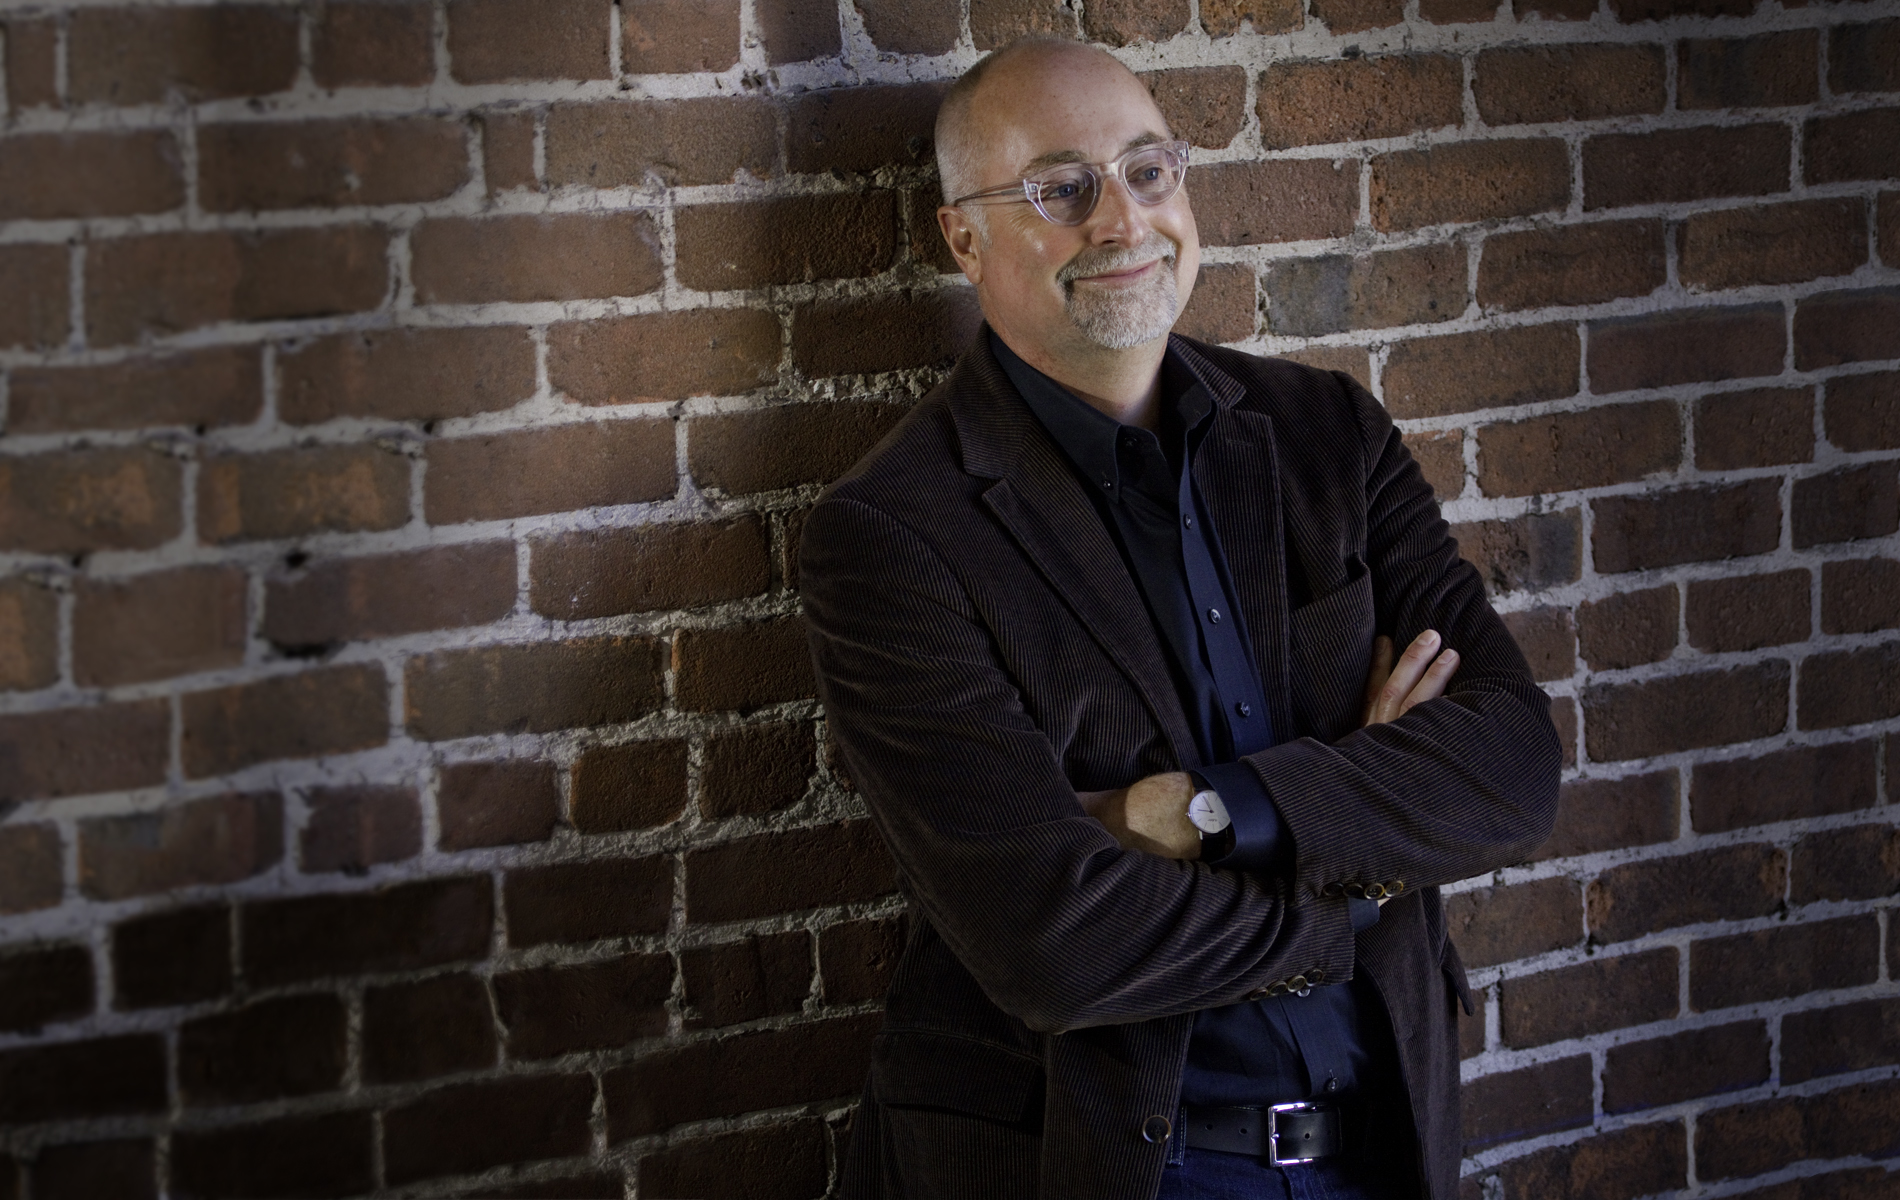
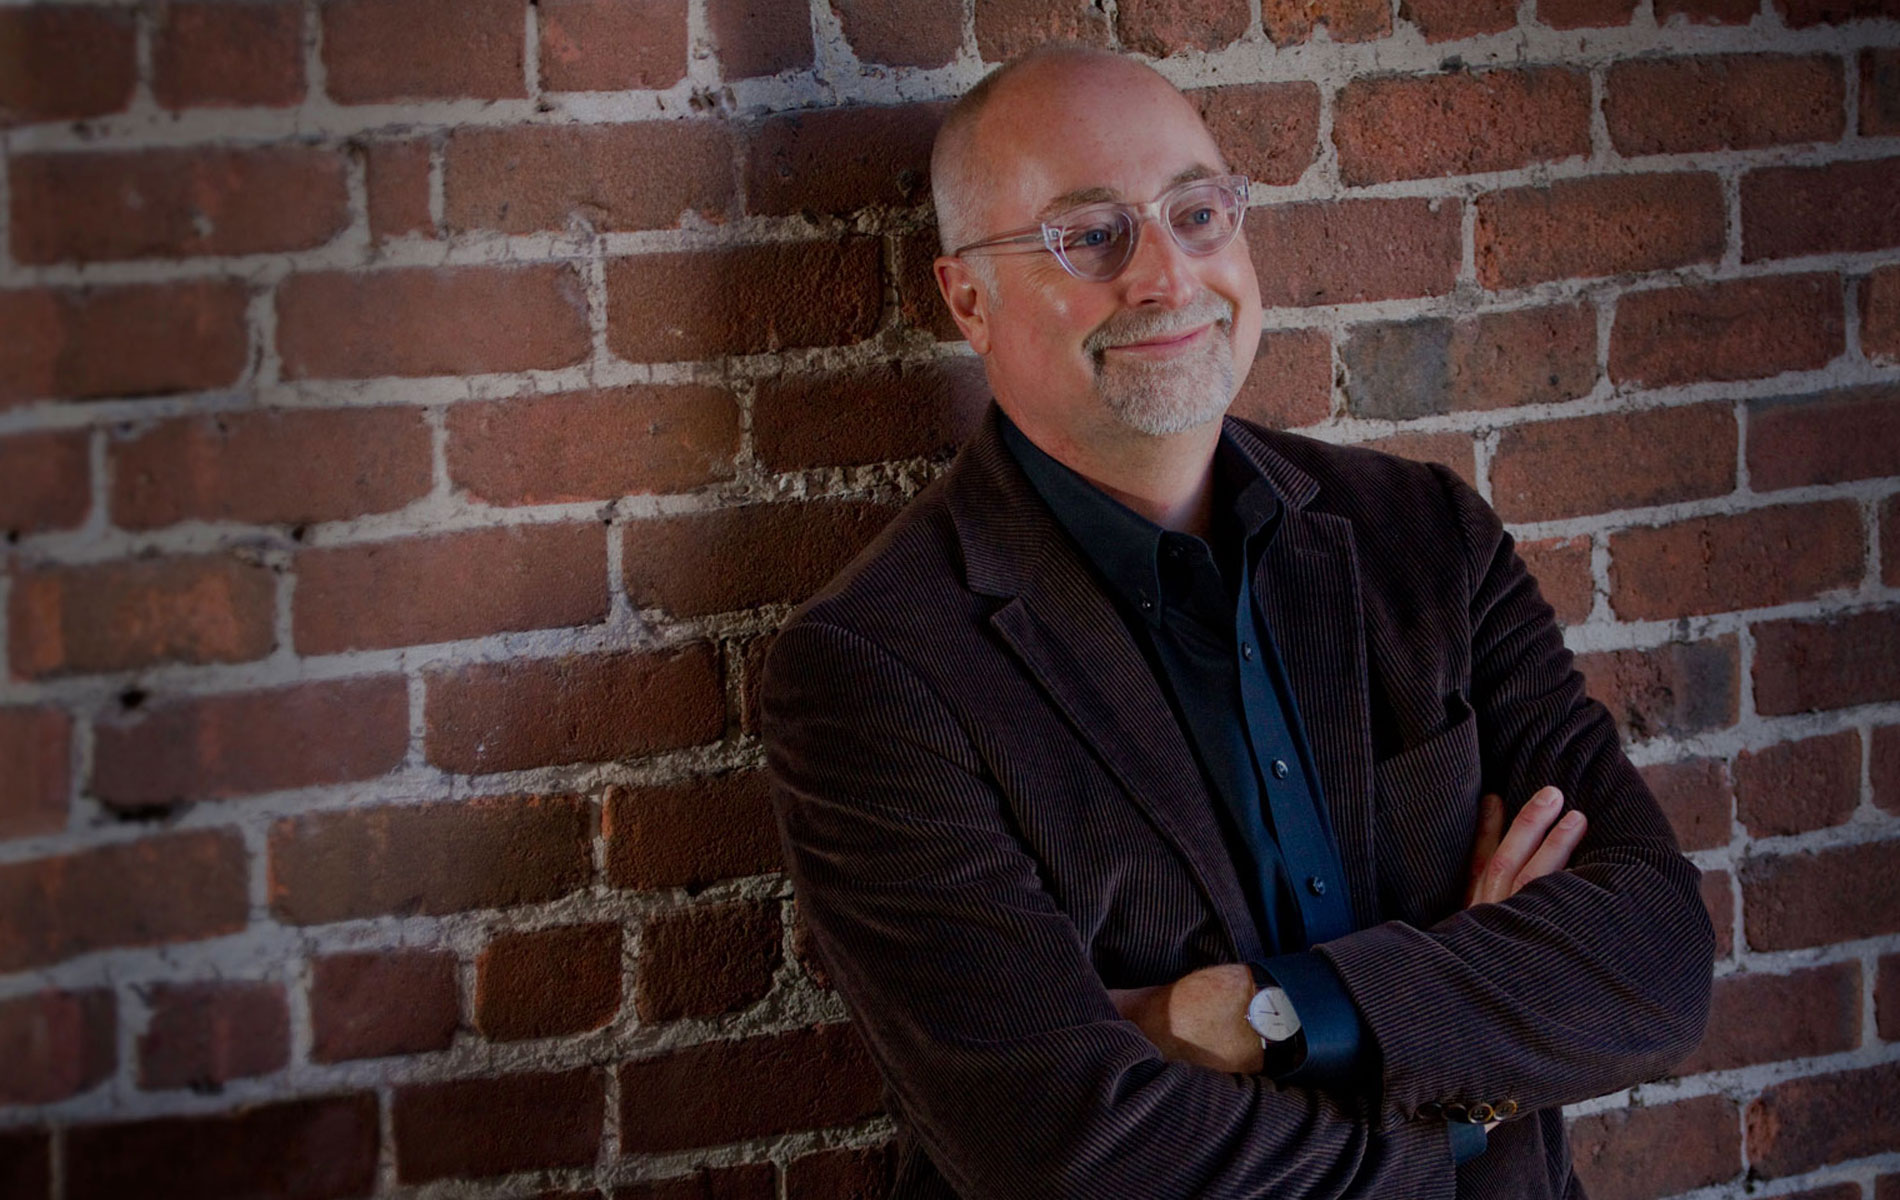
adjusted team bg images

diff --git a/css/oatv.css b/css/oatv.css
@@ -47,10 +47,10 @@ menu, menu li { float: left; list-style-type: none; padding: 0; margin: 0; }
 #header menu li a.select { color: #444; background: #eee; }
 
 p {
-	margin: 0 0 16px 0;	
-	font: 14px/20px Arvo, Helvetica, Arial, sans-serif; 
+	margin: 0 0 16px 0;
+	font: 14px/20px Arvo, Helvetica, Arial, sans-serif;
 	color: #000;
-	
+
 }
 
 p, ul{
@@ -77,9 +77,9 @@ h2{
 	//opacity: .6;
 	padding: 0;
 	margin: 0 0 20px;
-	letter-spacing: -4px; 
+	letter-spacing: -4px;
 	text-transform: uppercase;
-	color: #000;	
+	color: #000;
 }
 
 
@@ -87,7 +87,7 @@ h3 { font: 40px/36px Arvo, Georgia, serif; letter-spacing: -.03em; padding: 0; m
 
 
 .float-left{
-	float: left;	
+	float: left;
 	margin: 0 0 0 40px;
 }
 
@@ -109,7 +109,7 @@ h3 { font: 40px/36px Arvo, Georgia, serif; letter-spacing: -.03em; padding: 0; m
 }
 
 #nav li{
-	margin: 0 0 15px 0;	
+	margin: 0 0 15px 0;
 }
 
 #header, #intro, #second{
@@ -118,11 +118,11 @@ h3 { font: 40px/36px Arvo, Georgia, serif; letter-spacing: -.03em; padding: 0; m
 
 #header{
 	background: #fff;
-	height: 100px;	
+	height: 100px;
 	position: fixed;
 	clear: both;
 	z-index: 999;
-	-moz-box-shadow: inset 0 0 12px #ccc; -webkit-box-shadow: inset 0 0 12px #ccc; box-shadow: inset 0 0x 12px #ccc; 
+	-moz-box-shadow: inset 0 0 12px #ccc; -webkit-box-shadow: inset 0 0 12px #ccc; box-shadow: inset 0 0x 12px #ccc;
 }
 
 #intro{
@@ -157,7 +157,7 @@ h3 { font: 40px/36px Arvo, Georgia, serif; letter-spacing: -.03em; padding: 0; m
 #third {
 	color: #fff;
 	height: 1000px;
-	padding: 100px 0 0 0;	
+	padding: 100px 0 0 0;
 }
 
 #third p { color: #fff; }
@@ -184,11 +184,11 @@ h3 { font: 40px/36px Arvo, Georgia, serif; letter-spacing: -.03em; padding: 0; m
 .story .float-left, .story .float-right {
 	padding: 80px 0 0 0;
 	position: relative;
-	width: 350px;	
+	width: 350px;
 }
 
 
-#who h2 { font: 400 90px/90px Oswald, Georgia, serif; margin-bottom: 0; padding: 0; color: #000; 
+#who h2 { font: 400 90px/90px Oswald, Georgia, serif; margin-bottom: 0; padding: 0; color: #000;
 			/*font-size-adjust:0.531; //re-calculate adjustment */
 		}
 #who h3 { font: normal 48px/40px Arvo, Georgia, serif; margin-bottom: 12px; letter-spacing: -2px; font-size-adjust:0.531; //re-calculate adjustment }
@@ -218,7 +218,7 @@ h3 { font: 40px/36px Arvo, Georgia, serif; letter-spacing: -.03em; padding: 0; m
 #team #intro h2, #team #intro h3 { color: #fff; }
 #team #intro p, #team #second p { color: #fff; margin-right: 100px; text-shadow: 1px 1px 0 #000; }
 #team .light { color: #fff; opacity: .8; }
-#team #second { background: url(../img/markBG.jpg) 50% 0 no-repeat fixed; height: 1300px; }
+#team #second { background: url(../img/markBG.jpg) 0 0 no-repeat fixed; height: 1300px; }
 #team #second h3, #team #second p { color: #fff; }
 #team #second .light { opacity: .8; color: #fff; }
 #team #third { background: #fff /*url(../img/fourthBG.jpg) 50% 0 no-repeat fixed*/; height: 800px; }
@@ -242,9 +242,9 @@ h3 { font: 40px/36px Arvo, Georgia, serif; letter-spacing: -.03em; padding: 0; m
 #portfolio #content h2 { margin: 30px 0 0 30px; color: #000; opacity: .6; filter: alpha(opacity=60); padding-top:100px; }
 #portfolio #content ul { padding: 0 0 150px 30px; height: auto; overflow: hidden; }
 #portfolio #content ul, #portfolio #content ul li { float: left; list-style-type: none; }
-#portfolio #content li { cursor: pointer; margin: 2px; ; padding: 10px; width: 125px; height: 80px; opacity: .6;filter: alpha(opacity=60); background: #fff;     
-    -webkit-box-shadow: 0 0 4px rgba(0, 0, 0, 0.2), inset 0 0 50px rgba(0, 0, 0, 0.1);  
-    -moz-box-shadow: 0 0 4px rgba(0, 0, 0, 0.2), inset 0 0 50px rgba(0, 0, 0, 0.1);  
+#portfolio #content li { cursor: pointer; margin: 2px; ; padding: 10px; width: 125px; height: 80px; opacity: .6;filter: alpha(opacity=60); background: #fff;
+    -webkit-box-shadow: 0 0 4px rgba(0, 0, 0, 0.2), inset 0 0 50px rgba(0, 0, 0, 0.1);
+    -moz-box-shadow: 0 0 4px rgba(0, 0, 0, 0.2), inset 0 0 50px rgba(0, 0, 0, 0.1);
     box-shadow: 0 0 5px rgba(0, 0, 0, 0.2), inset 0 0 50px rgba(0, 0, 0, 0.1); }
 #portfolio #content li.inactive { background: url(../img/diag-tile.gif) repeat; }
 #portfolio #content li.active p.hidden { display:block; }
